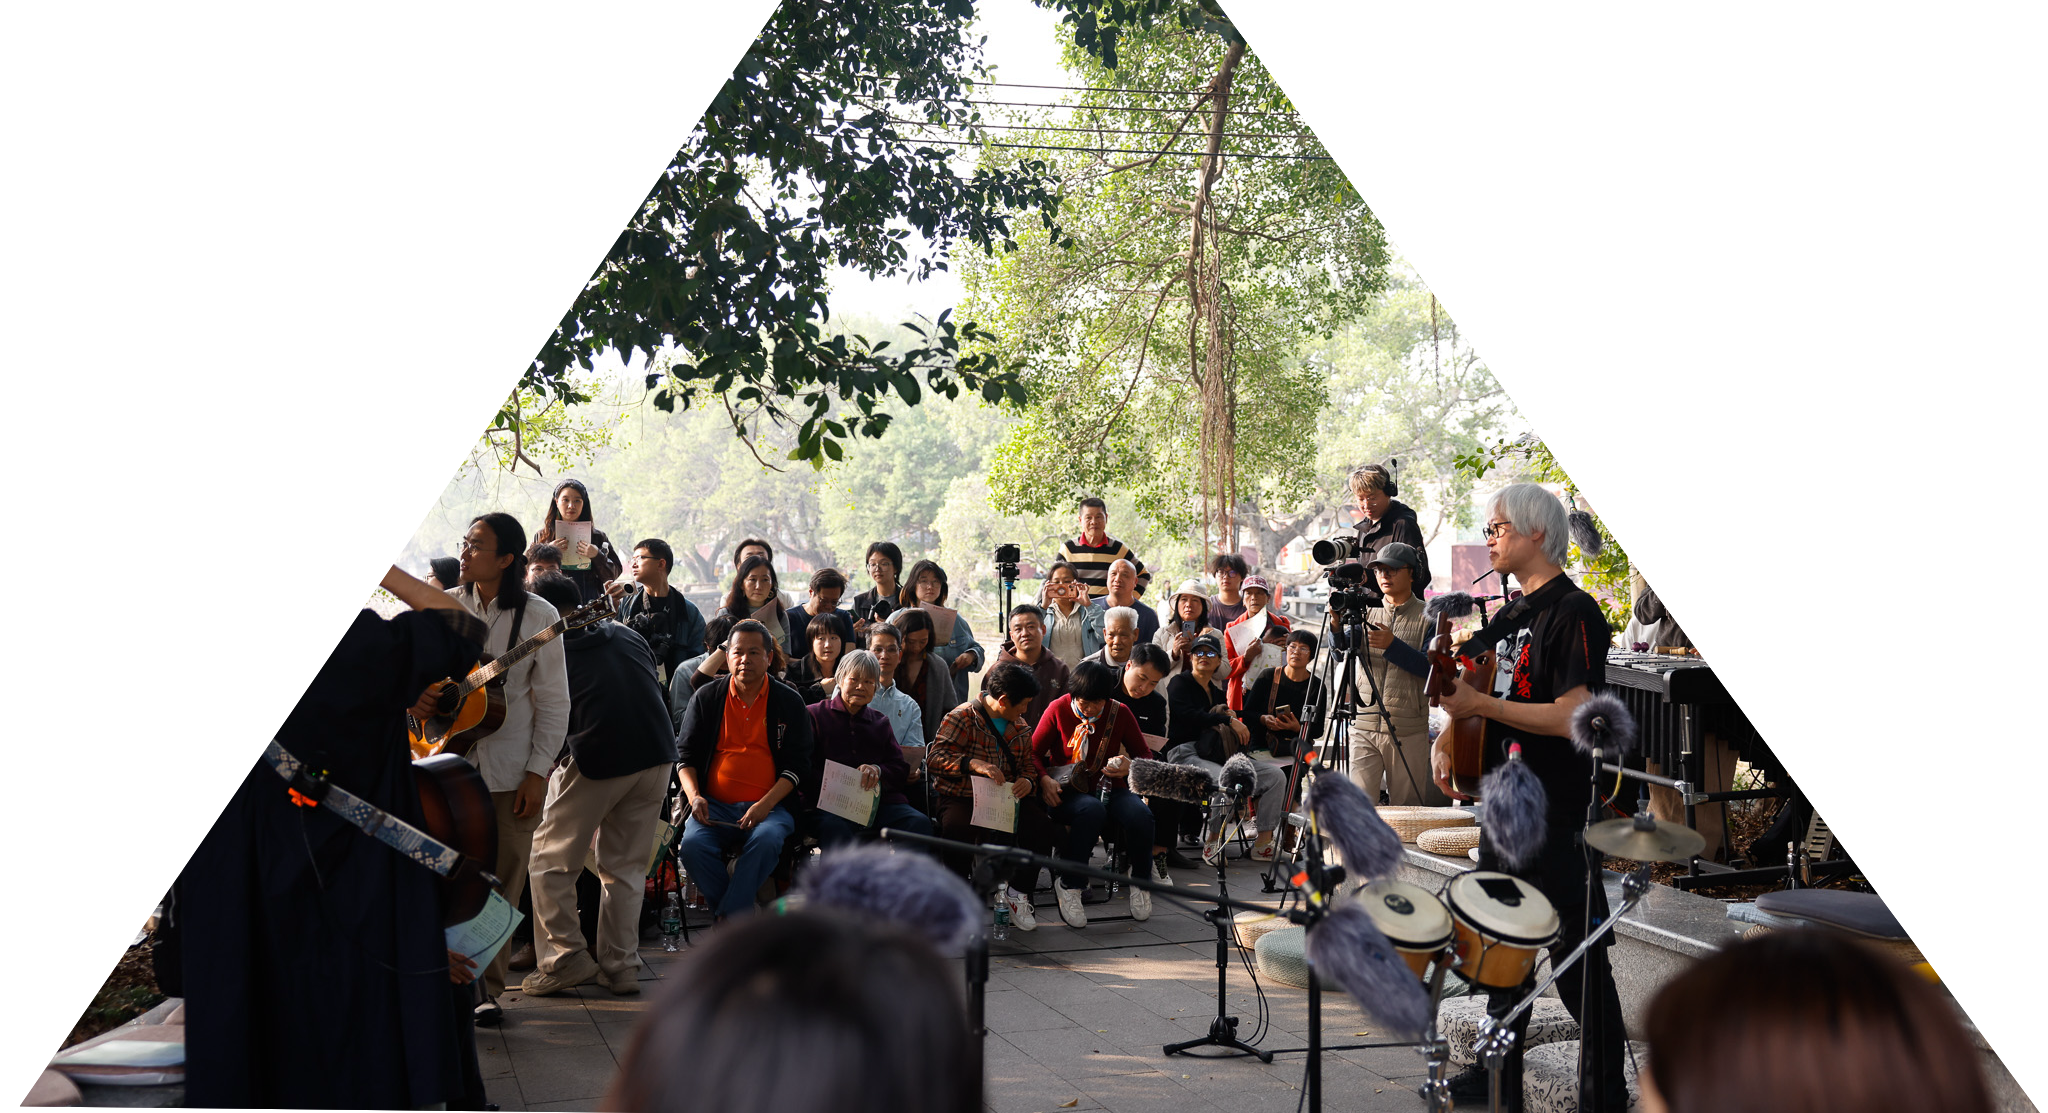
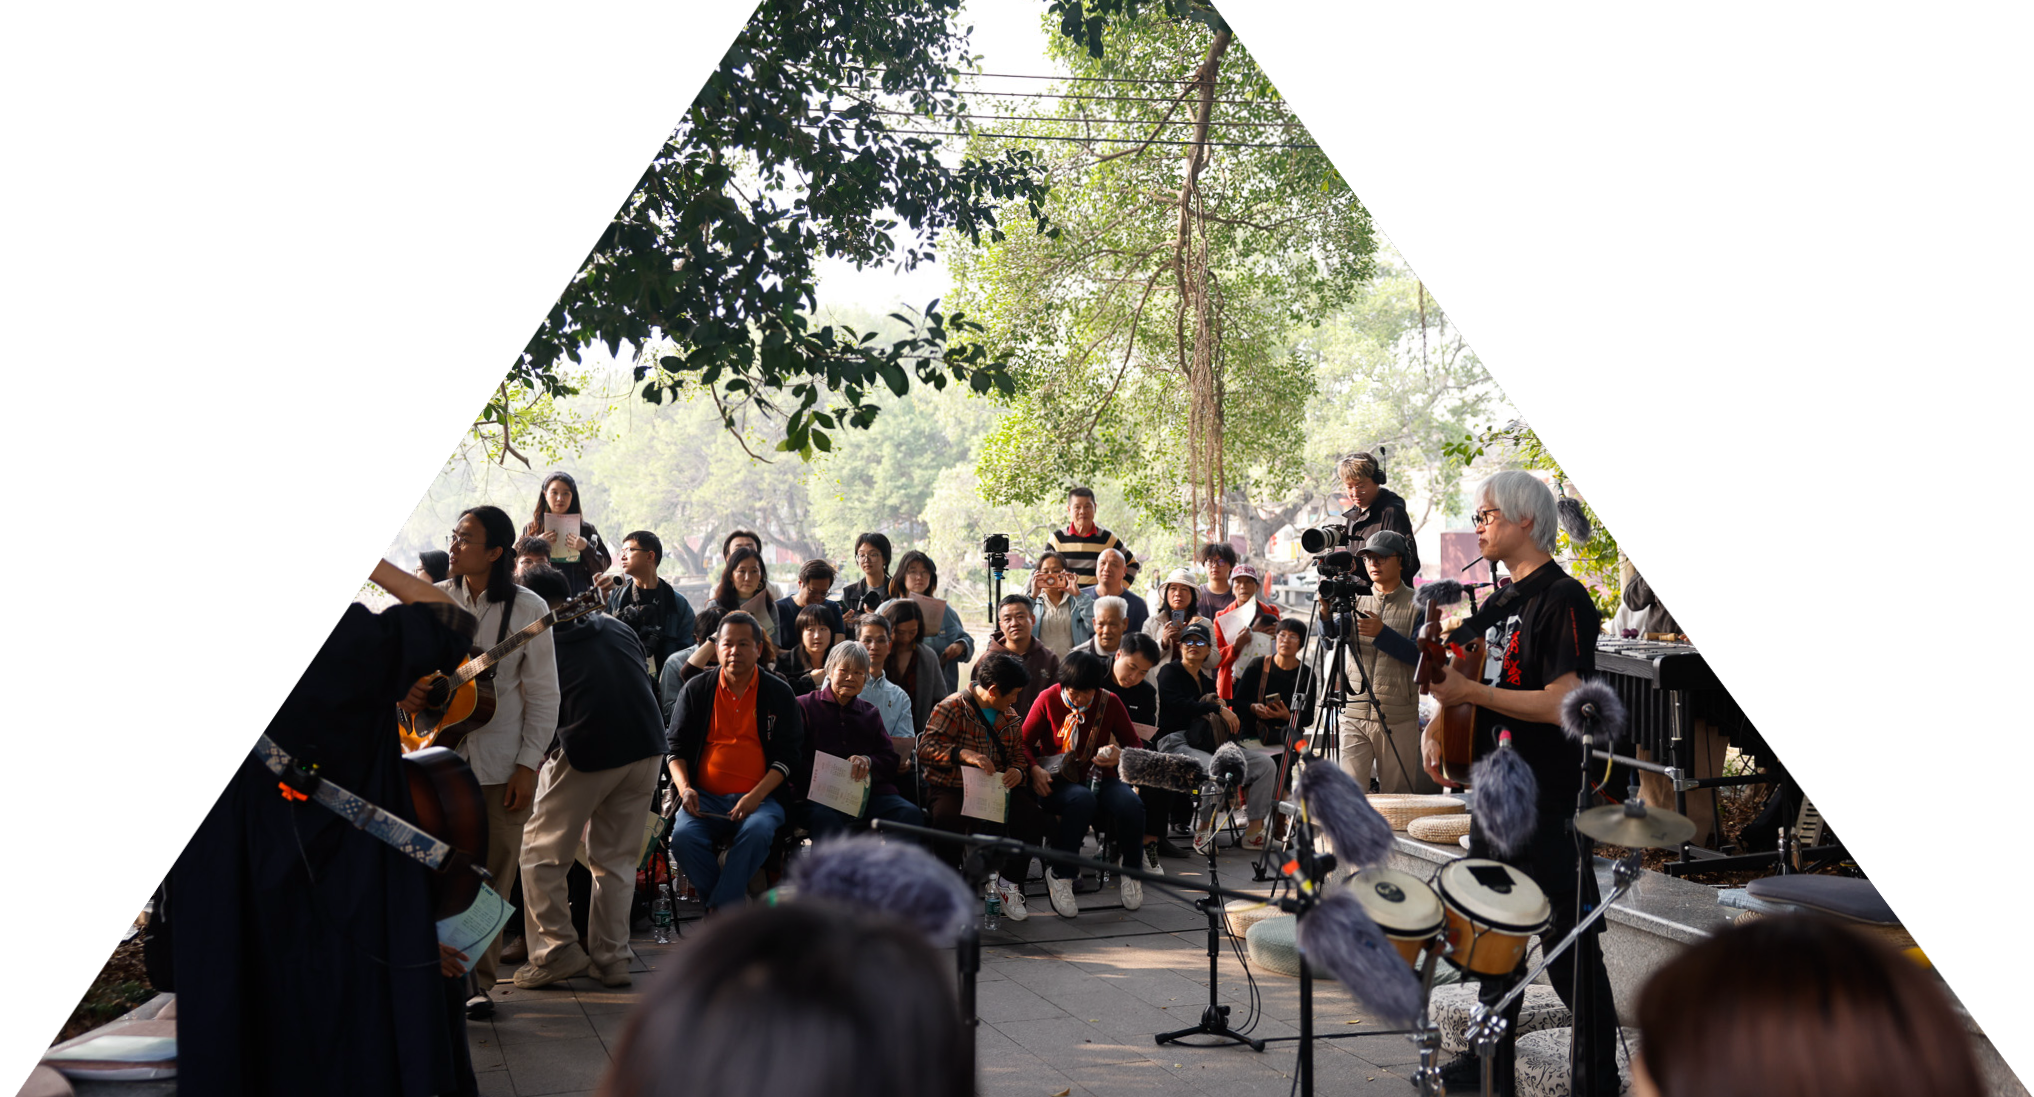
Add center UV edge bleed on monument slopes to reduce white fringe.
Scale profile textures slightly from center (stronger on east/west) and bump texture cache bust.

diff --git a/js/materials/slope-material.js b/js/materials/slope-material.js
@@ -4,6 +4,10 @@ import * as THREE from "three";
 export const SLOPE_PROFILE_OPACITY_REST = 0.65;
 export const SLOPE_PROFILE_OPACITY_HOVER = 0.85;
 
+/** 贴图从中心略放大，盖住坡面边缘缝隙（>1 放大） */
+export const SLOPE_EDGE_BLEED = 1.04;
+export const SLOPE_EDGE_BLEED_SIDE = 1.05;
+
 const slopeVertexShader = `
   varying vec2 vUv;
   void main() {
@@ -19,11 +23,14 @@ const slopeFragmentShader = `
   uniform float uTransitionOpacity;
   uniform float uProfileOpacityRest;
   uniform float uProfileOpacityHover;
+  uniform float uEdgeBleed;
   uniform float uZoom;
   varying vec2 vUv;
 
   void main() {
     vec2 uv = vUv;
+
+    uv = (uv - 0.5) / uEdgeBleed + 0.5;
 
     float zoom = mix(1.0, uZoom, uFocus);
     uv = (uv - 0.5) / zoom + 0.5;
@@ -46,7 +53,7 @@ const slopeFragmentShader = `
 `;
 
 /** 坡面 Shader（手稿默认 + 暗房显影；profile 使用 PNG alpha，完整 UV 不 cover 裁剪） */
-export function createSlopeMaterial(map, hatch) {
+export function createSlopeMaterial(map, hatch, edgeBleed = SLOPE_EDGE_BLEED) {
   return new THREE.ShaderMaterial({
     uniforms: {
       uMap: { value: map },
@@ -56,6 +63,7 @@ export function createSlopeMaterial(map, hatch) {
       uTransitionOpacity: { value: 1 },
       uProfileOpacityRest: { value: SLOPE_PROFILE_OPACITY_REST },
       uProfileOpacityHover: { value: SLOPE_PROFILE_OPACITY_HOVER },
+      uEdgeBleed: { value: edgeBleed },
       uZoom: { value: 1.04 },
     },
     vertexShader: slopeVertexShader,

diff --git a/js/monument/build-monument.js b/js/monument/build-monument.js
@@ -1,7 +1,11 @@
 import * as THREE from "three";
 import { FACES } from "../config/faces.js";
 import { createHatchTexture } from "../materials/procedural-textures.js";
-import { createSlopeMaterial } from "../materials/slope-material.js";
+import {
+  createSlopeMaterial,
+  SLOPE_EDGE_BLEED,
+  SLOPE_EDGE_BLEED_SIDE,
+} from "../materials/slope-material.js";
 import { createSlopeGeometry } from "../geometry/slope-geometry.js";
 import { buildBlueprint } from "../builders/blueprint.js";
 import { buildZaojing } from "../builders/zaojing.js";
@@ -66,7 +70,9 @@ export function buildMonument(ctx) {
     const metrics = geo.userData.edgeMetrics;
     logSlopeProfileGuide(face, metrics);
 
-    const mat = createSlopeMaterial(new THREE.Texture(), hatch);
+    const edgeBleed =
+      face.id === "west" || face.id === "east" ? SLOPE_EDGE_BLEED_SIDE : SLOPE_EDGE_BLEED;
+    const mat = createSlopeMaterial(new THREE.Texture(), hatch, edgeBleed);
     const mesh = new THREE.Mesh(geo, mat);
     mesh.userData.faceId = face.id;
     mesh.userData.href = face.href;

diff --git a/js/monument/texture-loader.js b/js/monument/texture-loader.js
@@ -4,7 +4,7 @@ import * as THREE from "three";
 
 /** Bump when project images change (forces monument to reload textures). */
 
-export const TEXTURE_CACHE_BUST = "10";
+export const TEXTURE_CACHE_BUST = "11";
 
 
 
